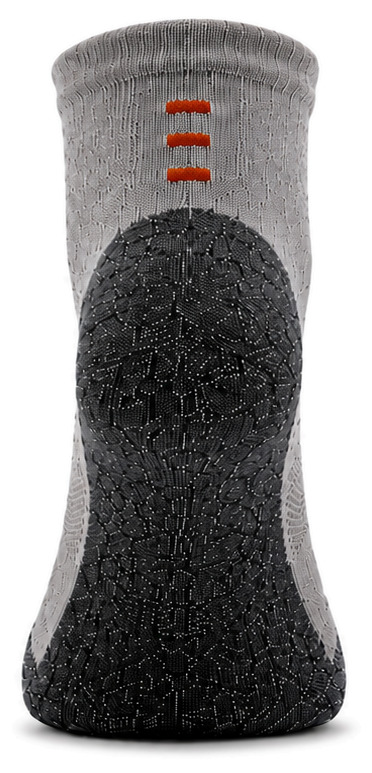
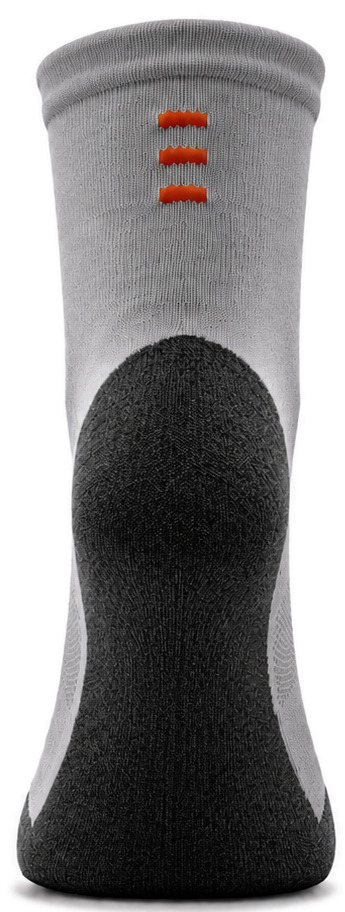
Update the Stuart 200 to the corrected quarter shot
Swaps both Stuart 200 views for the new render: the toe wordmark now
reads TEANAWAY (the previous quarter shot had it knitted as TEAMAWAY),
and the knit renders cleanly at a taller quarter cut.

  stuart-200-side  661 x 784  ->  664 x 940
  stuart-200-back  372 x 773  ->  345 x 912

Same isolation pass as the rest, backgrounds pure white, no stray marks.
Every image on the page now renders at roughly 1x or better on a 3x
phone.

The stated height spec is left alone. Measured against the Larch 100's
known 7-7.5" using each sock's own foot length as the scale reference,
this sample implies 6.3-6.7" heel to cuff, where the page says 5.5".

Claude-Session: https://claude.ai/code/session_013fb5EHTk8QK9CKA3QyLpvQ

diff --git a/index.html b/index.html
@@ -426,7 +426,7 @@ footer{background:#fff;border-top:1px solid var(--hair);padding:clamp(40px,5vw,6
         <article class="pfeat">
           <div class="pmedia">
             <div class="pshot">
-              <img id="img-200" src="img/stuart-200-side.jpg" width="661" height="784"
+              <img id="img-200" src="img/stuart-200-side.jpg" width="664" height="940"
                    alt="Stuart 200 in Stuart Stone, outside view">
             </div>
             <div class="thumbs" data-main="img-200" role="group" aria-label="Stuart 200 views">
